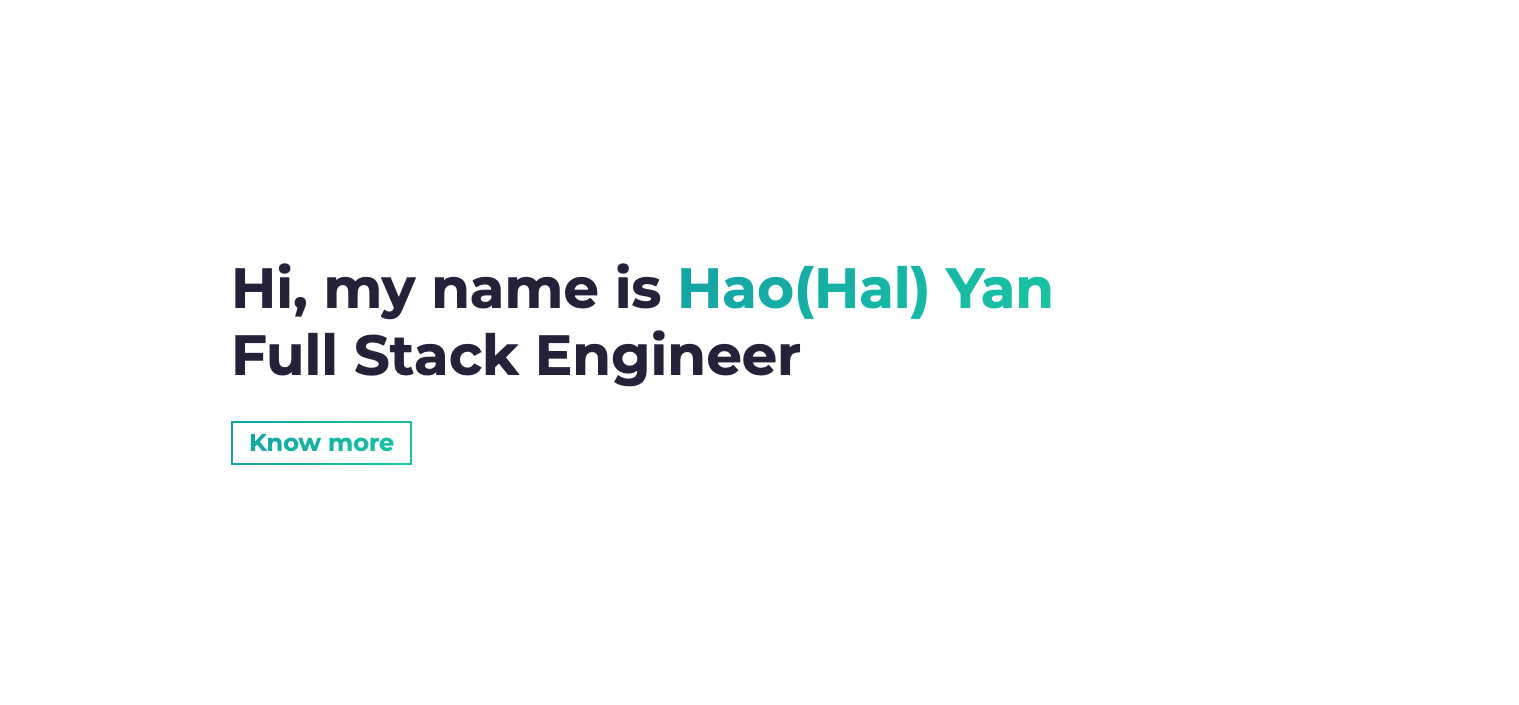
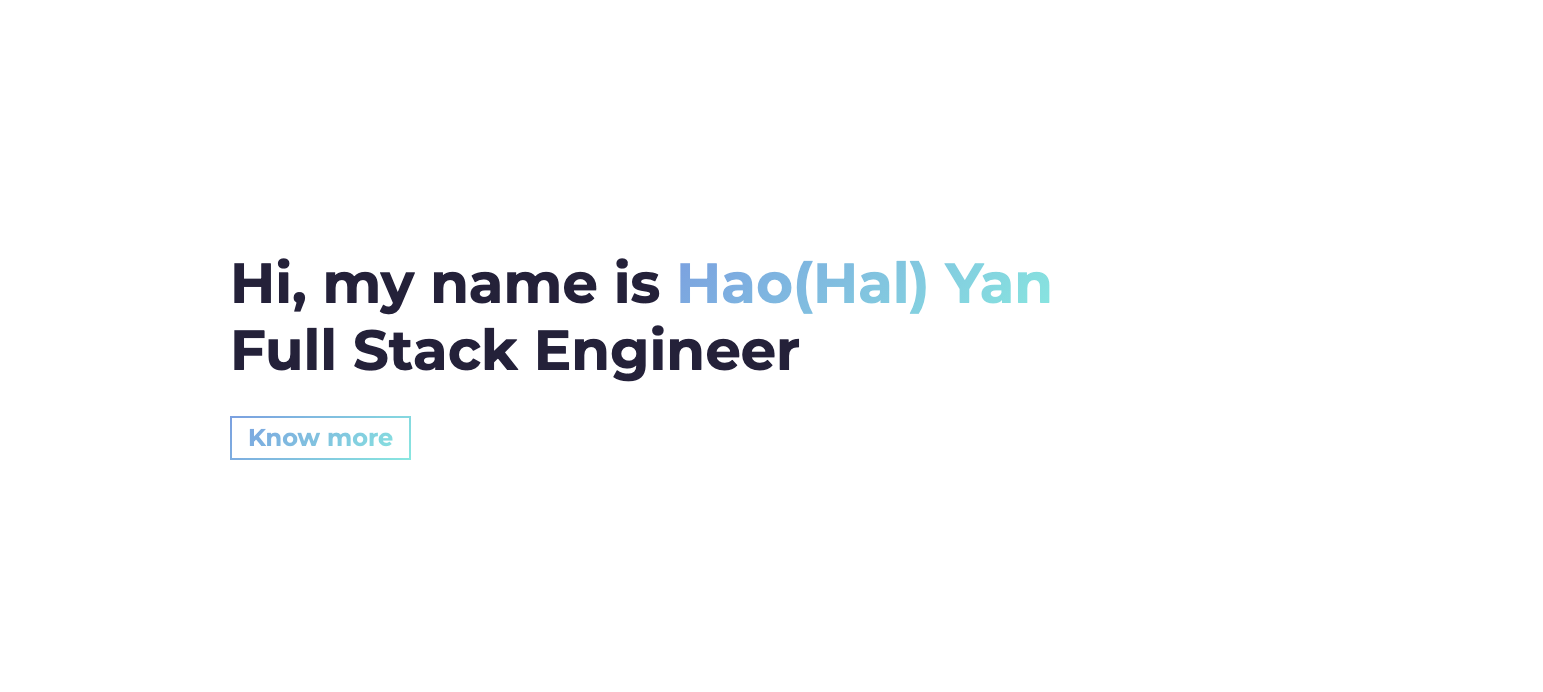
Theme color changed & Introduction updated

Changed region(s): [[0.1238, 0.3642, 0.7117, 0.5462], [0.1238, 0.5766, 0.2785, 0.6676]]

diff --git a/src/mock/data.js b/src/mock/data.js
@@ -21,7 +21,7 @@ export const aboutData = {
   paragraphOne:
     'I currently am working as a Full Stack Engineer located in Vancouver,BC. I have serious passion for UI effects, animations and creating intuitive, dynamic user experiences.',
   paragraphTwo:
-    'I am confident, naturally curious, well-organized person with high attention to detail. Outside of work I have a cat. A big fan of outdoor activities, trying out new recipe in the kitchen',
+    'I am confident, naturally curious, well-organized person with high attention to detail. Outside of work I have a cat. In addition, I am a big fan of outdoor activities, trying out new recipe in the kitchen.',
   paragraphThree:
     ' I would love to get coffee and get to know you, so don’t hesitate to get in touch.',
   resume: 'https://drive.google.com/file/d/1rHEPbeaoT-1YS2JB5ZLk9F8Azrh6R8JM/view?usp=sharing', // if no resume, the button will not show up

diff --git a/src/style/abstracts/_variables.scss b/src/style/abstracts/_variables.scss
@@ -1,6 +1,6 @@
 // COLORS
-$primary-color: #02aab0;
-$secondary-color: #00cdac;
+$primary-color: #86a8e7;
+$secondary-color: #91eae4;
 
 // $primary-color: #7f449d;
 // $secondary-color: #793fc1;
